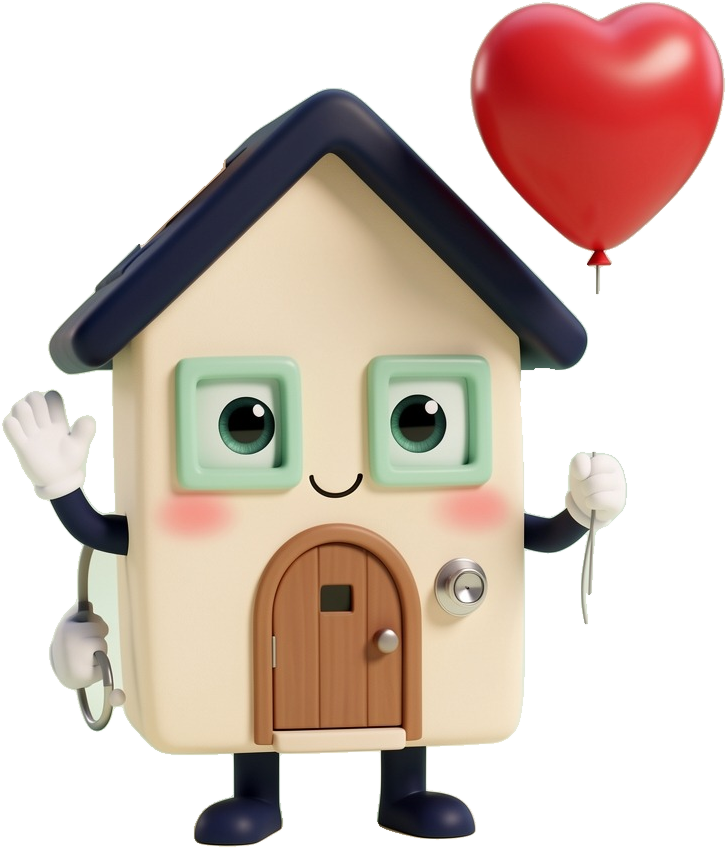
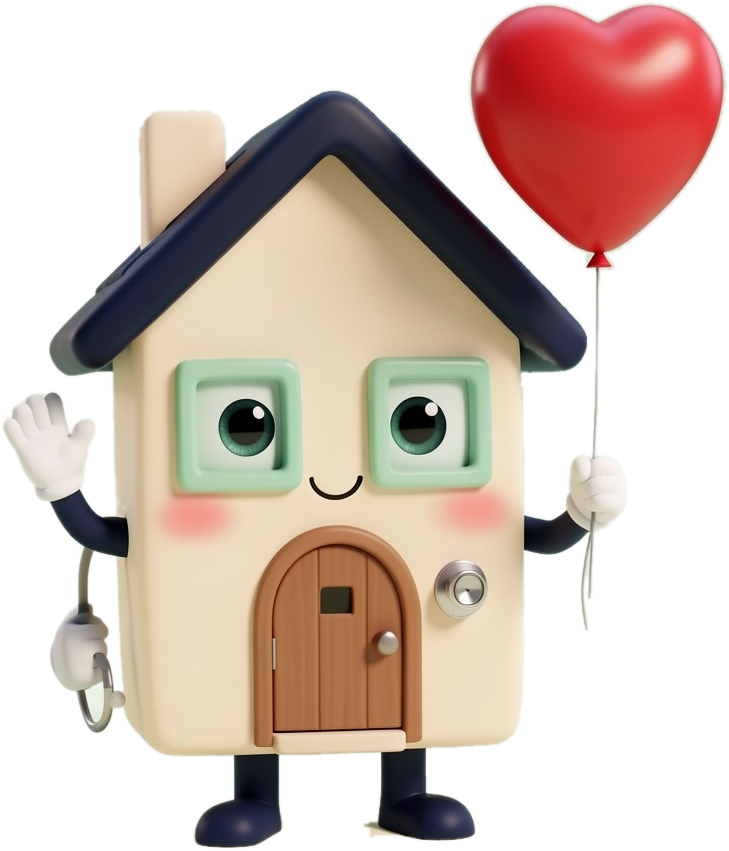
Pose run 1 review: better cut-outs (colour vs fitted backdrop), re-cut khonejan with chimney, 3 new poses listed, quality log
Claude-Session: https://claude.ai/code/session_017xnKcRbfAmdEi2ocJDzC3j

diff --git a/scripts/cutouts.py b/scripts/cutouts.py
@@ -1,9 +1,10 @@
 """Cut brand-character renders out of their studio background for the dialogue reels.
 
 Reads characters/jobs.json; every job with "cut": "<name>" turns characters/out/<id>-<first seed>.jpg
-into characters/cut/<name>.png (transparent). The mask from rembg (isnet) is closed and
-hole-filled with the render's own pixels, so thin gaps (e.g. a roof edge) are not cut away,
-while true background colour stays transparent.
+into characters/cut/<name>.png (transparent). The mask from rembg (isnet) is combined with a
+colour test against a fitted model of the studio background: parts rembg misses (ivory wall,
+chimney) come back, gaps of background colour (between arm and body) and floor shadow stay out.
+Re-cut one render by hand: python scripts/cutouts.py <render.jpg> <dest.png>
 """
 from __future__ import annotations
 
@@ -18,17 +19,51 @@ from scipy import ndimage
 ROOT = pathlib.Path(__file__).resolve().parent.parent
 
 
-def cut(src: pathlib.Path, dest: pathlib.Path, session) -> None:
+def bg_model(S: np.ndarray, A: np.ndarray) -> np.ndarray:
+    """Smooth model of the studio background (cubic surface per channel), fitted robustly on
+    pixels rembg calls background, so the vignette and floor gradient are followed."""
+    h, w, _ = S.shape
+    yy, xx = np.mgrid[0:h, 0:w]
+    yy, xx = yy / h, xx / w
+    F = np.stack([np.ones_like(xx), xx, yy, xx * xx, yy * yy, xx * yy, xx ** 3, yy ** 3, xx * xx * yy, xx * yy * yy], -1)
+    m = ndimage.binary_erosion(A < 10, np.ones((15, 15)))
+    M = S
+    for _ in range(4):
+        coef = np.linalg.lstsq(F[m], S[m], rcond=None)[0]
+        M = F @ coef
+        m &= np.sqrt(((S - M) ** 2).sum(-1)) < 12
+    return M
+
+
+def chroma(X: np.ndarray) -> np.ndarray:
+    return X / (X.sum(-1, keepdims=True) + 1e-6) * 765
+
+
+def cut(src: pathlib.Path, dest: pathlib.Path, session, T: float = 12) -> None:
+    """rembg mask + colour against the background model:
+    - adds back parts rembg missed that differ in colour from the studio background
+      (an ivory wall or chimney on the ivory backdrop), but not floor shadow (darker, same hue);
+    - leaves gaps between arm and body transparent when they are background colour
+      (no more filled-in backdrop patches)."""
     im = Image.open(src).convert("RGB")
     S = np.array(im).astype(float)
     A = np.array(remove(im, session=session).split()[-1])
+    M = bg_model(S, A)
+    Rc = np.sqrt(((chroma(S) - chroma(M)) ** 2).sum(-1))
     a = A > 128
-    closed = ndimage.binary_fill_holes(ndimage.binary_closing(a, structure=np.ones((41, 41))))
-    bg = np.concatenate([S[:, :40], S[:, -40:]], axis=1).mean(axis=1)
-    dist = np.sqrt(((S - bg[:, None, :]) ** 2).sum(-1))
-    add = ndimage.binary_opening(closed & ~a & (dist > 22), structure=np.ones((5, 5)))
-    alpha = np.maximum(A, (add * 255).astype(np.uint8))
-    alpha = np.maximum(alpha, (ndimage.binary_fill_holes(alpha > 40) * 255).astype(np.uint8))
+    col = ndimage.binary_opening(Rc > T, structure=np.ones((5, 5)))
+    col &= ndimage.binary_opening((Rc > 25) | ((S - M).max(-1) > 6), structure=np.ones((3, 3)))
+    lab, n = ndimage.label(a | col)
+    sizes = ndimage.sum(np.ones_like(lab), lab, range(n + 1))
+    body = np.isin(lab, [i for i in set(np.unique(lab[a])) - {0} if sizes[i] > 2000])
+    env = ndimage.binary_fill_holes(ndimage.binary_closing(body, structure=np.ones((25, 25))))
+    gl, gn = ndimage.label(env & ~body)
+    keep = body.copy()
+    for i in range(1, gn + 1):
+        g = gl == i
+        if g.sum() < 40 or col[g].mean() > 0.5:
+            keep |= g
+    alpha = np.where(keep, np.where(col | ~a, 255, A), 0).astype(np.uint8)
     im.putalpha(Image.fromarray(alpha).filter(ImageFilter.GaussianBlur(1.0)))
     im = im.crop(im.getbbox())
     dest.parent.mkdir(parents=True, exist_ok=True)
@@ -37,6 +72,10 @@ def cut(src: pathlib.Path, dest: pathlib.Path, session) -> None:
 
 
 def main() -> None:
+    import sys
+    if len(sys.argv) == 3:
+        cut(pathlib.Path(sys.argv[1]), pathlib.Path(sys.argv[2]), new_session("isnet-general-use"))
+        return
     jobs = json.loads((ROOT / "characters" / "jobs.json").read_text(encoding="utf-8"))
     todo = [(ROOT / "characters" / "out" / f"{j['id']}-{j['seeds'][0]}.jpg", ROOT / "characters" / "cut" / f"{j['cut']}.png")
             for j in jobs if j.get("cut")]

diff --git a/characters/README.md b/characters/README.md
@@ -17,7 +17,13 @@ Rules: no text in images; never a real patient; medical scenes stay safe (no nee
 ## Available poses (characters/cut)
 - mahtab: waving with one hand, medical bag in the other
 - mahtab-walk: standing with the medical bag, waving (use for walk-in entrances)
+- mahtab-phone: smiling, talking on a mobile phone held to her ear (booking / call scenes)
 - ebrahim: standing, holding a tablet to his chest
-- khonejan: waving, heart balloon, wooden door (cut-out fixed 2026-11-05)
+- ebrahim-thumbsup: smiling, thumbs up, tablet in the other hand (approval / "done")
+- khonejan: waving, heart balloon, stethoscope, wooden door (re-cut 2026-11-07: chimney and balloon string now complete; old cut in cut/archive)
+- khonejan-worried: worried, gloved hands on its cheeks, no balloon (problem / opening scenes; use with "mood": "worried")
+
+Older versions of replaced cut-outs live in characters/cut/archive (not used by the reels).
+Quality notes per run: characters/quality-log.md.
 
 New poses come from characters/pose-backlog.json (scheduled task, Thursdays and Saturdays).

diff --git a/characters/quality-log.md b/characters/quality-log.md
@@ -1,0 +1,5 @@
+# Character pose quality log
+
+One line per scheduled pose run (Thursdays and Saturdays). Run count drives the quality pass (every 4th run).
+
+- 2026-11-07 · run 1 · made khonejan-worried (seed 892), mahtab-phone (753), ebrahim-thumbsup (761); all three renders passed (identity, pose, hands) but the bot cut-outs failed (khonejan: gable wall and chimney cut away; ebrahim: backdrop patch between arm and body; mahtab: invisible fringe widening the frame). Fixed without new renders: scripts/cutouts.py now tests colour against a fitted background model (adds missed ivory parts, keeps backdrop-coloured gaps and floor shadow out); all three re-cut and passed. Replaced khonejan.png with a re-cut of its own render c-house-23 (chimney + balloon string complete; same image, so identity unchanged); old file in cut/archive/khonejan-2026-11-07.png. Parked the never-rendered bg-street/bg-door plate jobs in characters/jobs-parked.json so a push renders only this run's 3. Failed: none. Backlog left: 9.
